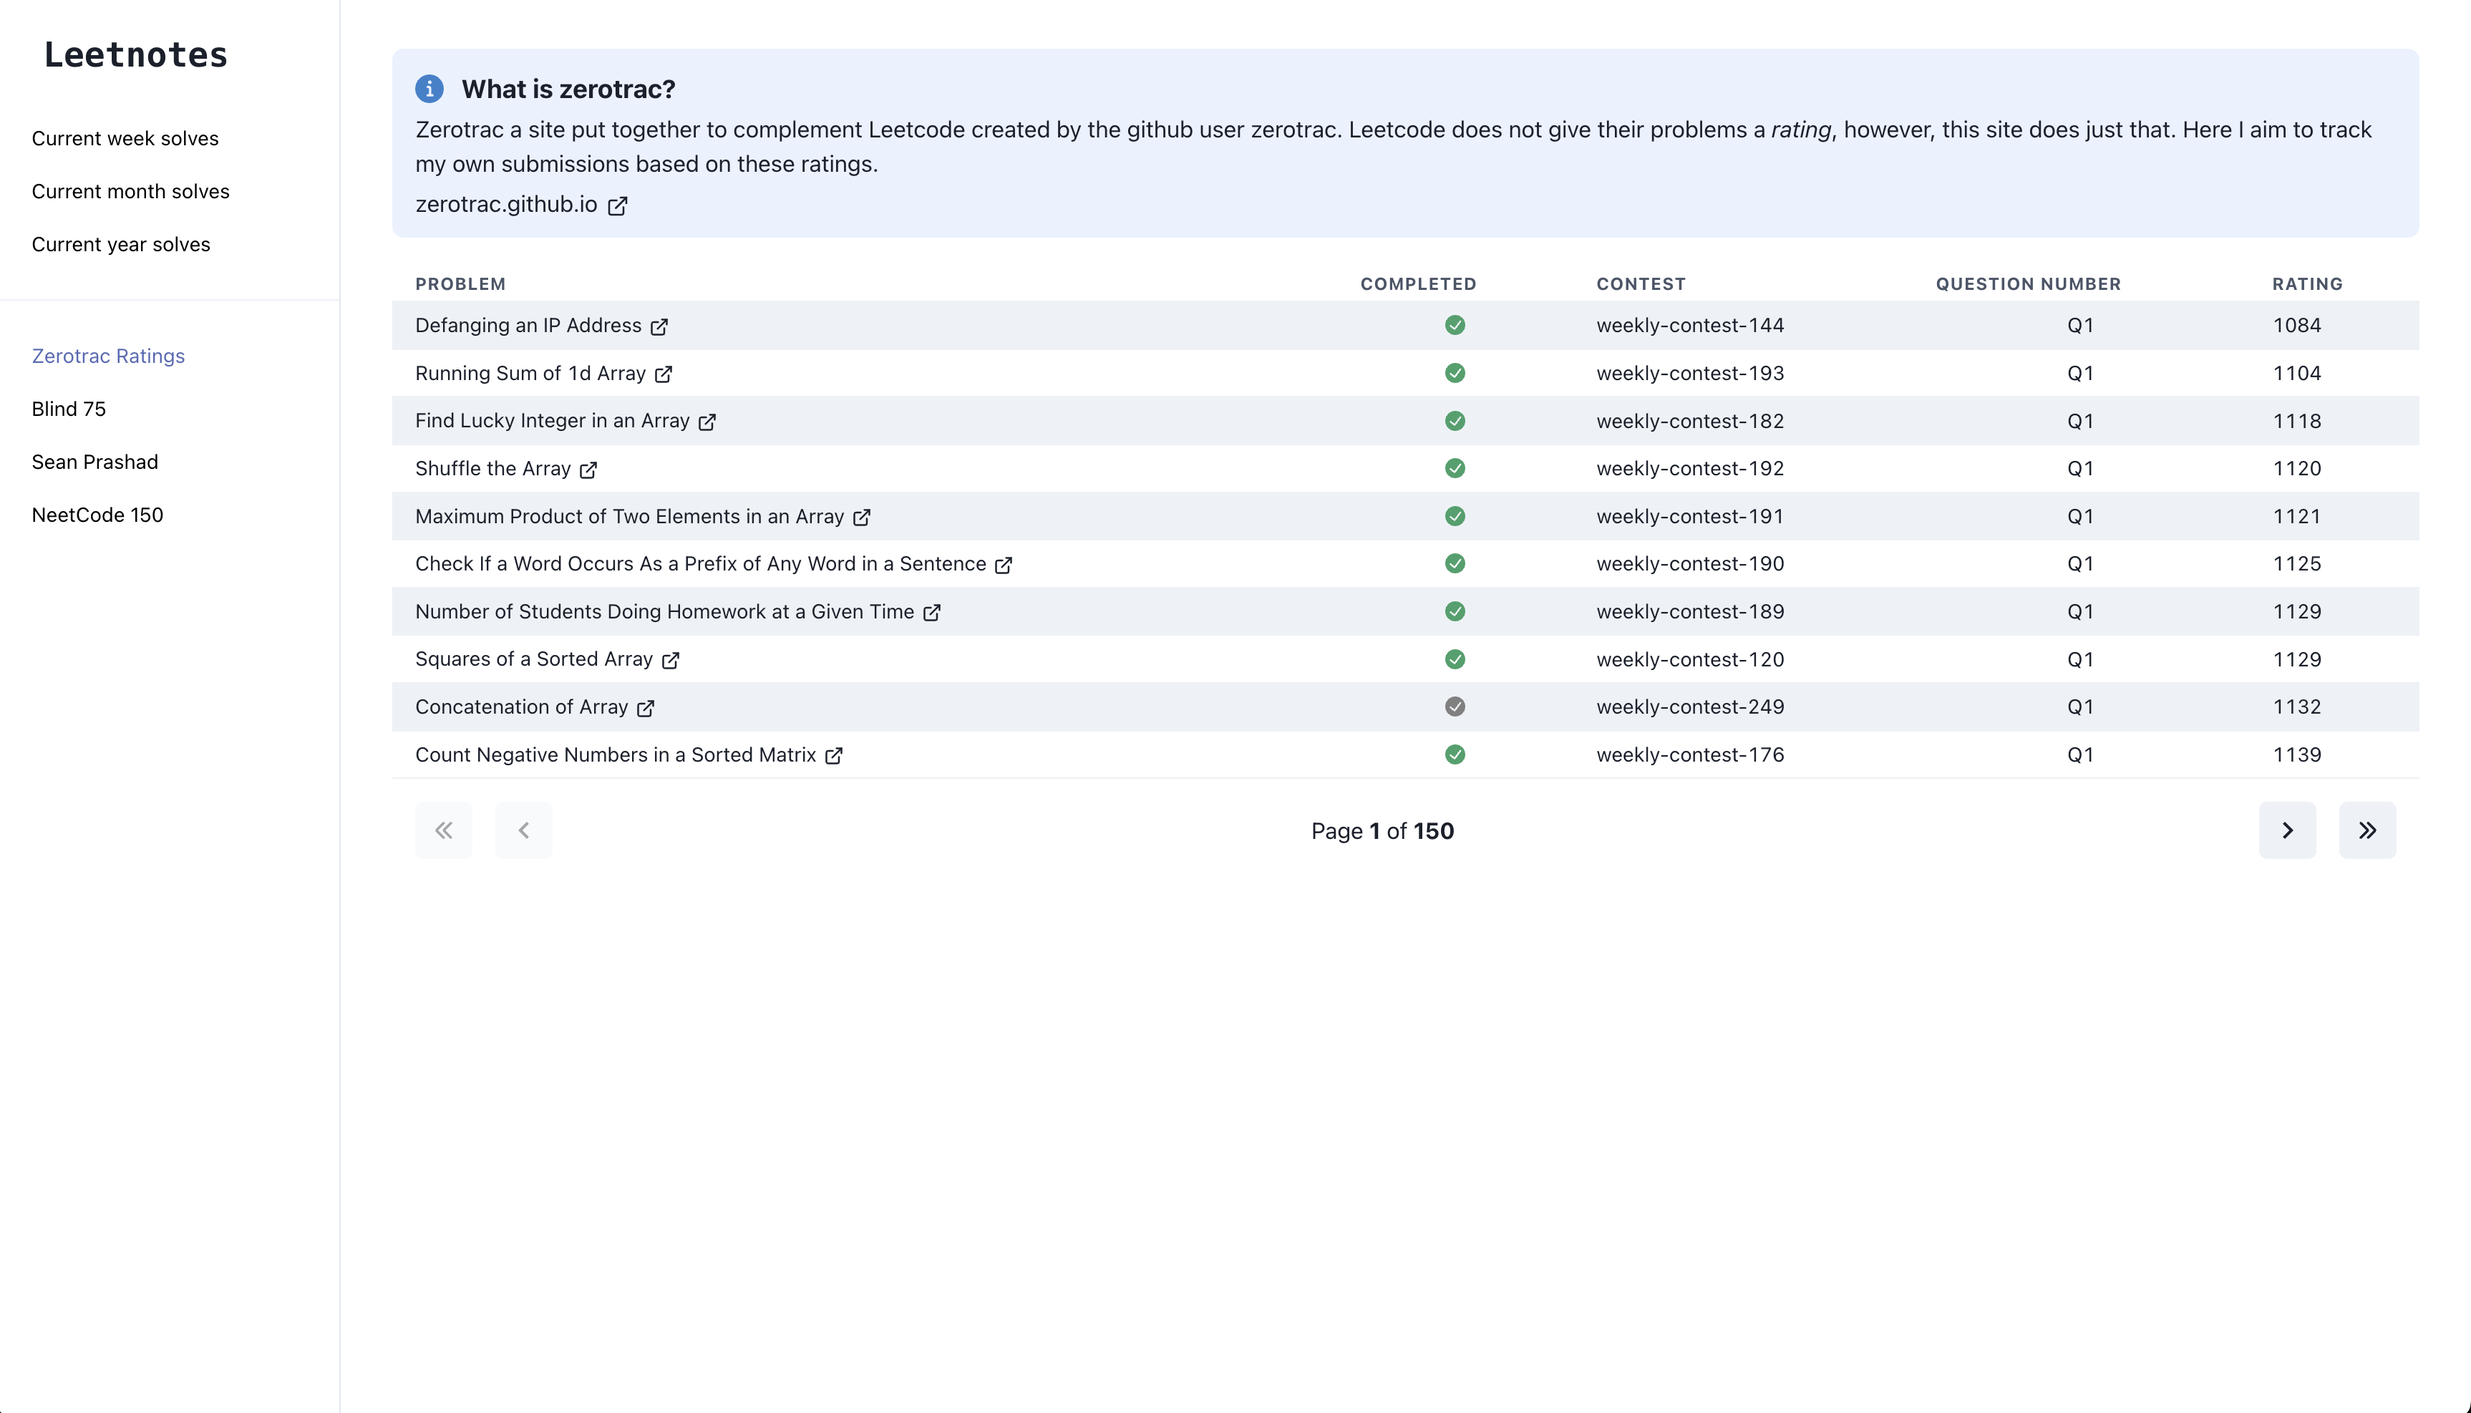
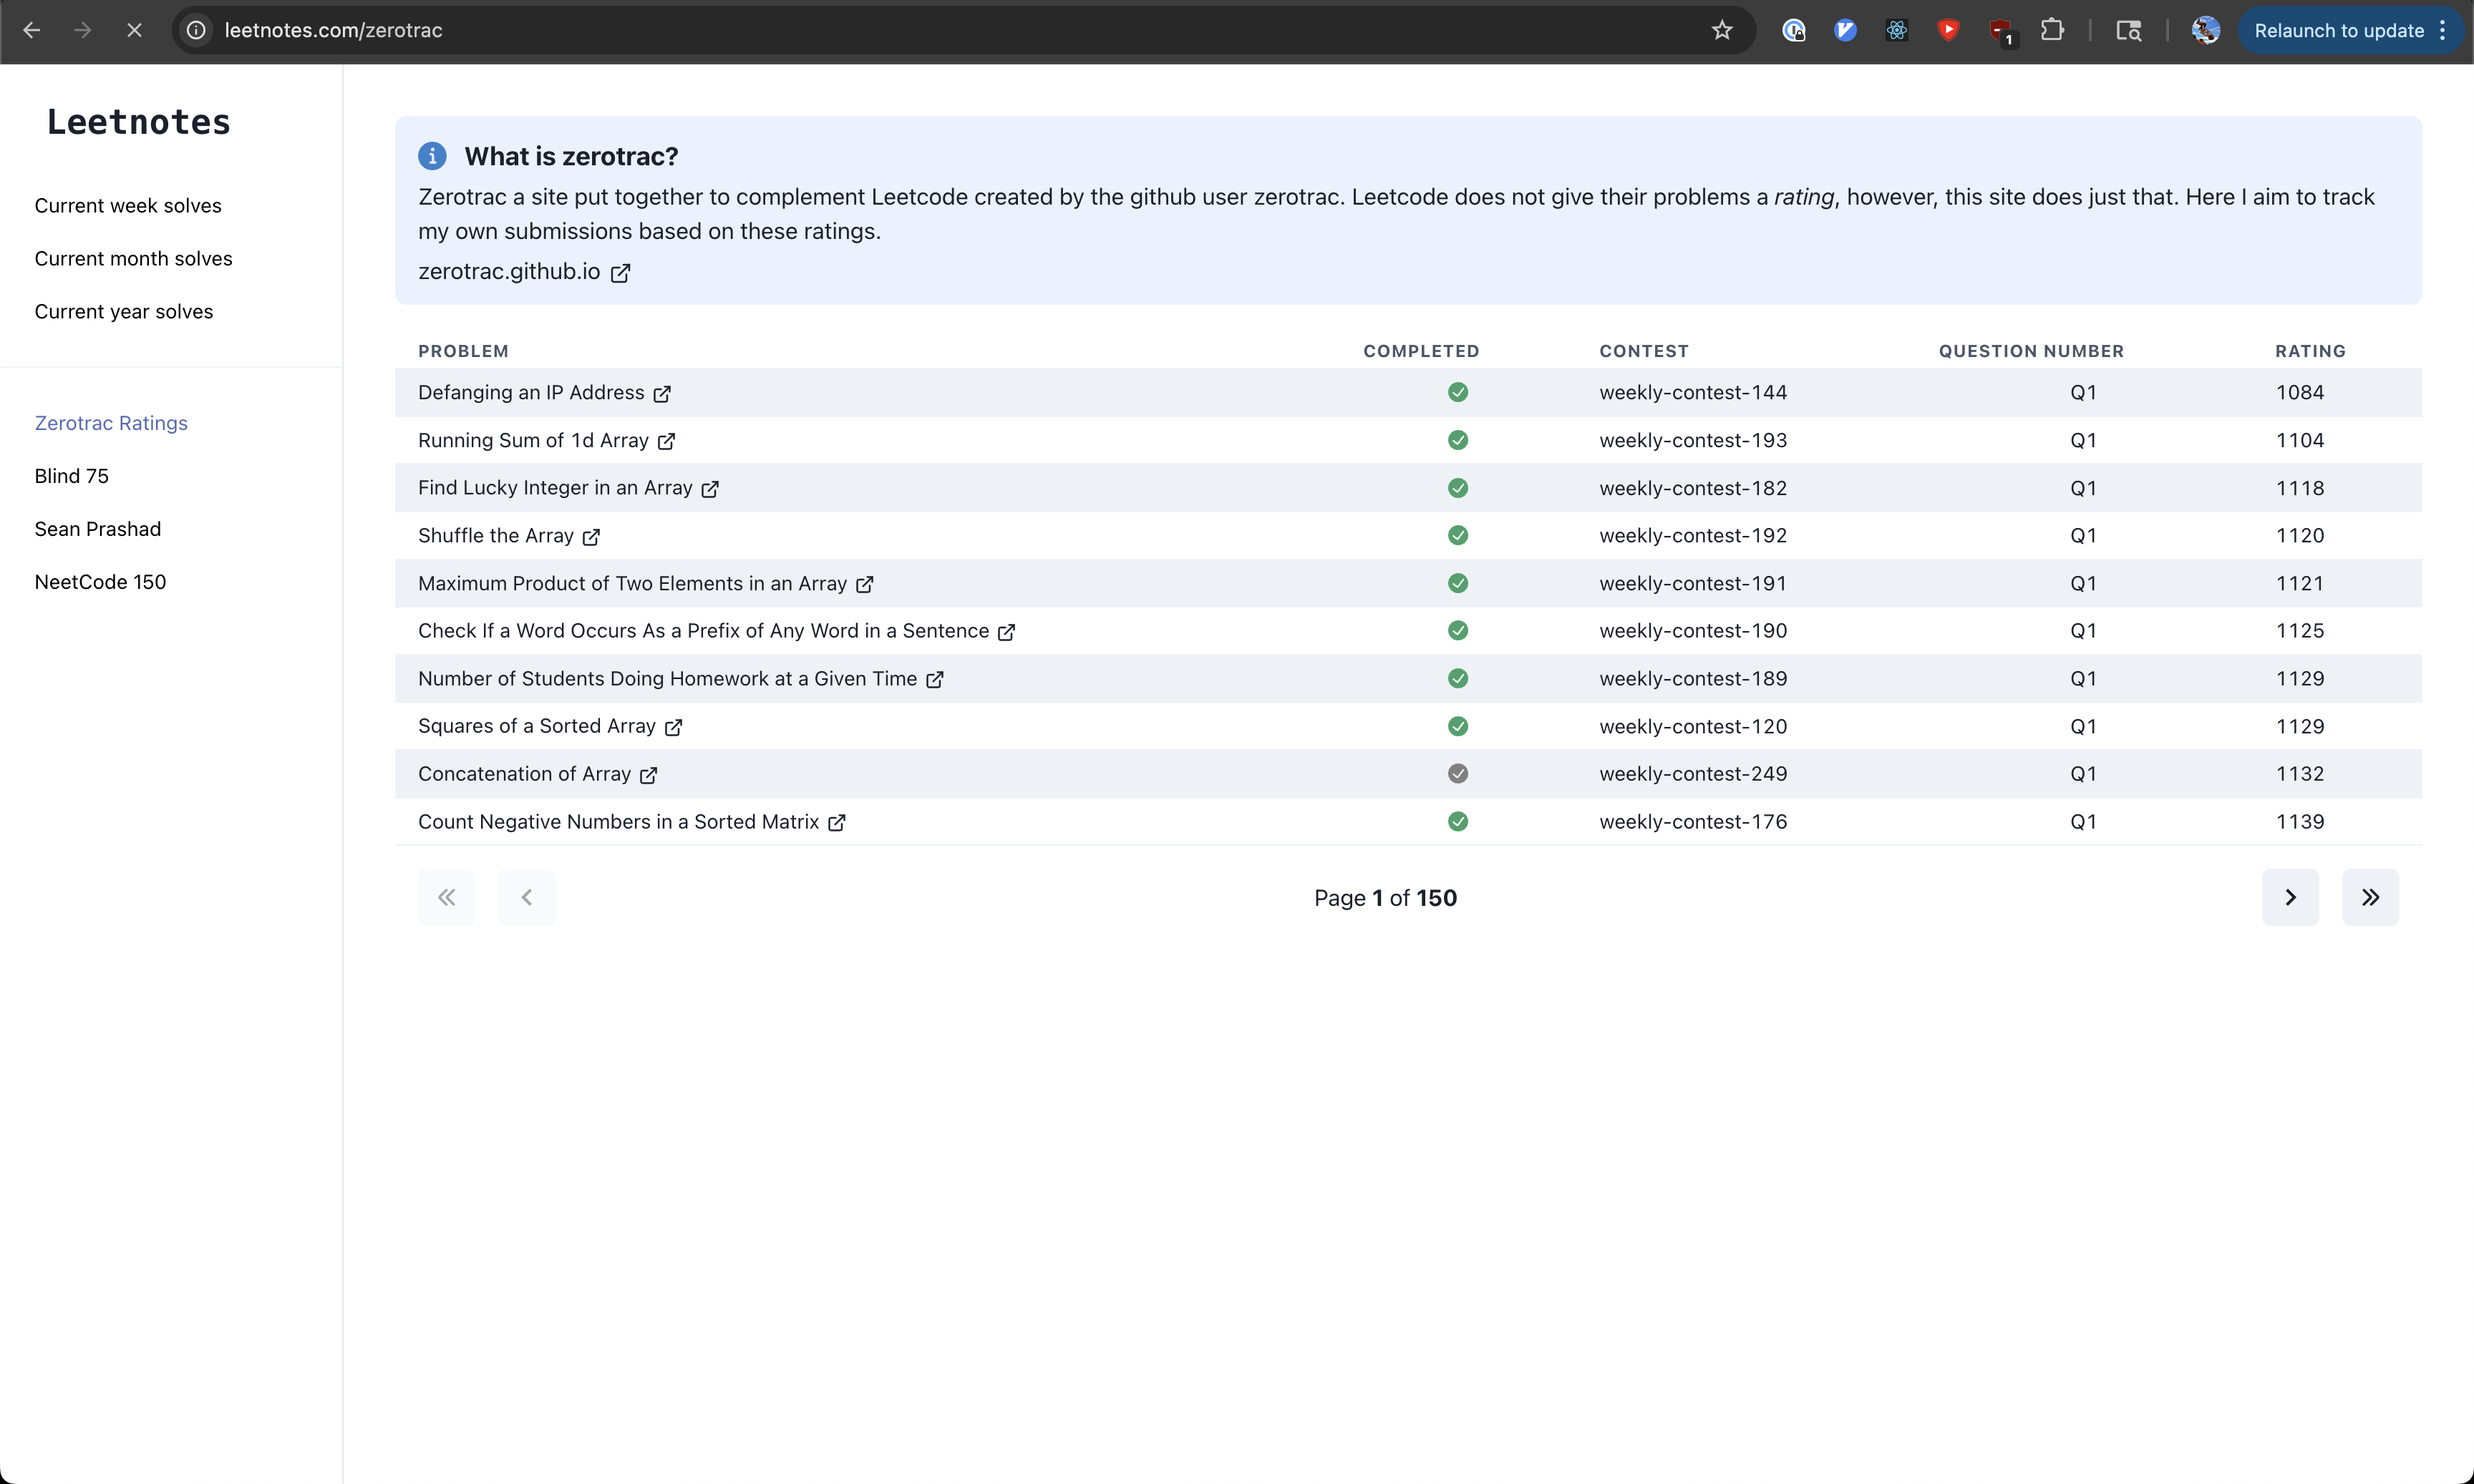
update

diff --git a/src/content/blog/no-pressure-to-write-software-for-yourself.md b/src/content/blog/no-pressure-to-write-software-for-yourself.md
@@ -34,6 +34,8 @@ This has actually been seriously helpful in getting me to step away from the scr
 
 I know there is still some aspect of me trying to complete a checkbox but there are still benefits to dragging yourself to an in person event.
 
+![habits](/habits-app.png)
+
 ---
 
 It's interesting how this is going to progress as a trend since LLMs allow for more code or ephemeral projects
